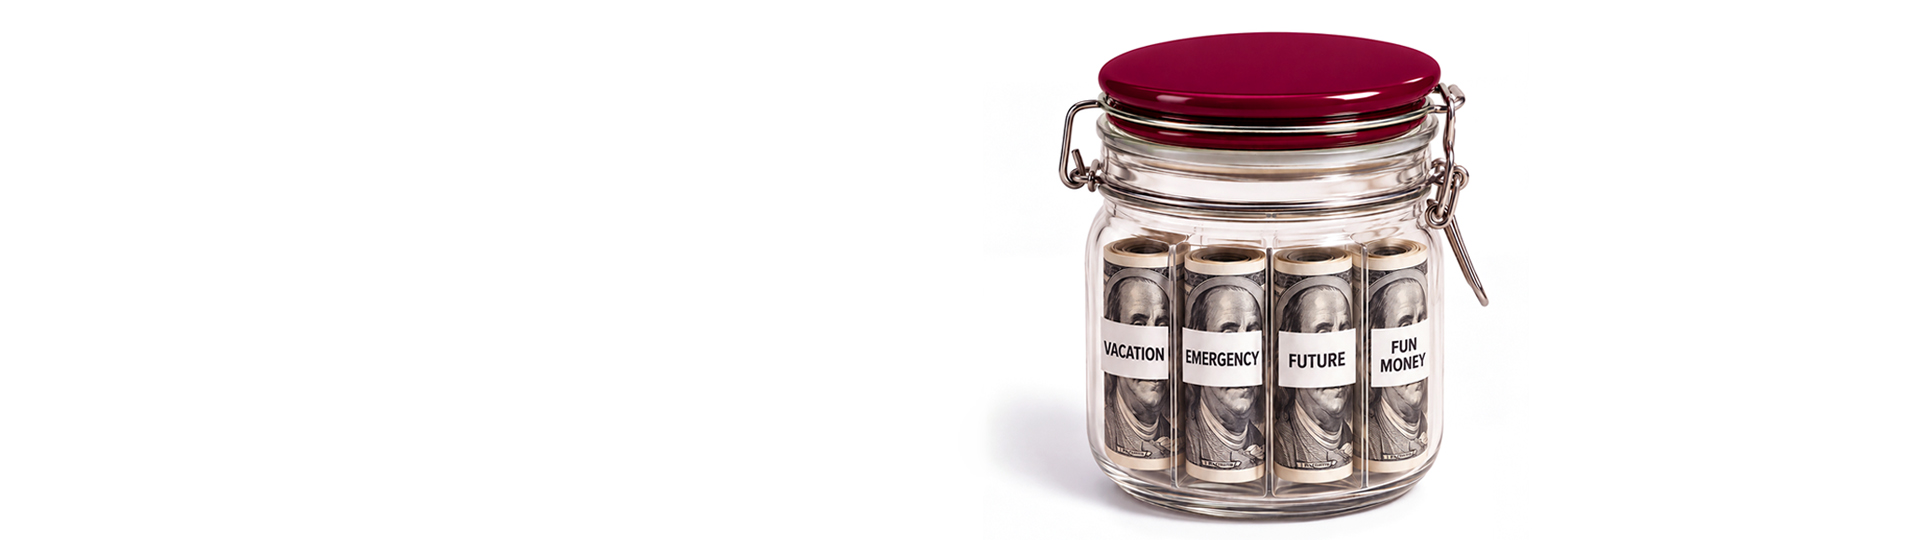
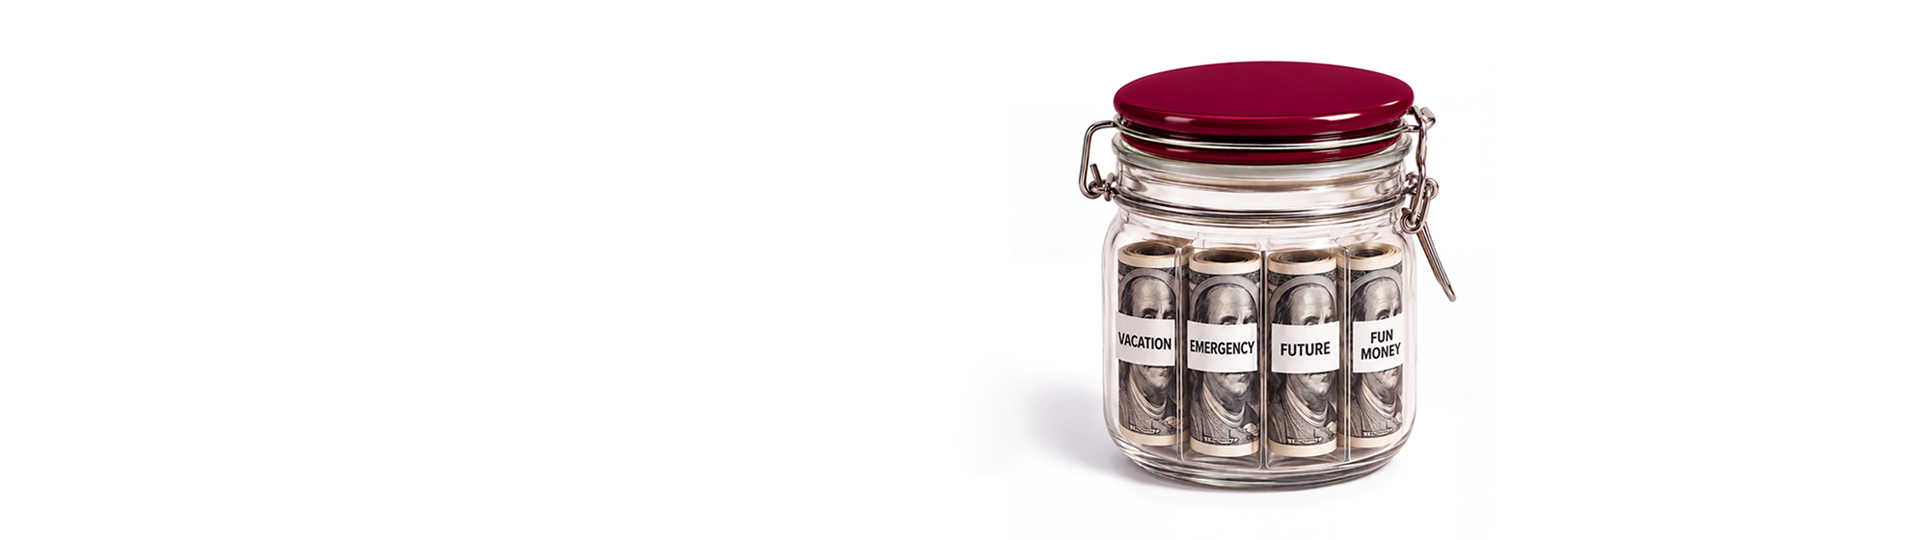
final online

Changed region(s): [[0.5312, 0.0593, 0.7812, 0.9778]]

diff --git a/LLI-Aviation-Application-ThankYou.html b/LLI-Aviation-Application-ThankYou.html
@@ -5,7 +5,7 @@
   <meta http-equiv="Content-Type" content="text/html; charset=UTF-8">
   <meta http-equiv="X-UA-Compatible" content="IE=edge">
   <meta name="viewport" content="initial-scale=1, maximum-scale=1, width=device-width">
-  <title>AUB OSB | Behavioral Finance Certificate - Thank You</title>
+  <title>AUB OSB | Aviation Management - Application Thank You</title>
 
   <!-- Font Awesome -->
   <link rel="stylesheet" href="https://cdnjs.cloudflare.com/ajax/libs/font-awesome/6.7.2/css/all.min.css">
@@ -22,13 +22,78 @@
       content: '';
       position: absolute;
       inset: 0;
-      background: linear-gradient(0deg, var(--color-black-30, rgba(0, 0, 0, 0.3)), var(--color-black-30, rgba(0, 0, 0, 0.3))), url('images/AUB-OSB-ONLINE-Behavioral-Finance-banner.jpg');
-      background-position: center center;
+      background: linear-gradient(0deg, var(--color-black-30), var(--color-black-30)),
+        url('images/AUB-OSB-Avitation-Banner.jpg');
+      background-position: 35% center;
       background-size: cover;
       background-repeat: no-repeat;
       z-index: 0;
     }
 
+    .hero__label {
+      font-size: 0.8rem;
+      letter-spacing: 3px;
+      font-weight: 500;
+      color: rgba(255, 255, 255, 0.9);
+      text-transform: uppercase;
+      margin-bottom: 0.75rem;
+    }
+
+    .hero__title {
+      font-size: 3.2rem;
+      font-weight: 800;
+      line-height: 1.2;
+      letter-spacing: -0.02em;
+    }
+
+    .hero__sub {
+      font-size: 1.2rem;
+      font-weight: 500;
+      margin: 0.5rem 0 1rem;
+    }
+
+    .hero__desc {
+      font-size: 1.05rem;
+      opacity: 0.85;
+      margin: 1rem 0 2rem;
+      max-width: 600px;
+    }
+
+    /* ── Logo bar ── */
+    .hero__logos {
+      --logo-gap: 3rem;
+      display: flex;
+      align-items: center;
+      flex-wrap: wrap;
+      gap: var(--logo-gap);
+      margin-bottom: 1rem;
+    }
+
+    .logo-item {
+      position: relative;
+      display: flex;
+      align-items: center;
+      justify-content: center;
+      flex: 0 0 auto;
+      max-width: 100%;
+    }
+
+    .logo-item img {
+      display: block;
+      max-height: 90px;
+      width: 100%;
+      height: auto;
+      object-fit: contain;
+      filter: brightness(0) invert(1);
+      transition: max-height 0.3s ease;
+    }
+
+    #IATA-logo {
+      position: absolute;
+      bottom: 0;
+      right: 1.5rem;
+      max-width: clamp(60px, 6vw, 70px);
+    }
   </style>
 
   <!-- Google Tag Manager -->
@@ -37,63 +102,45 @@
 </head>
 
 <body>
-  <!-- Google Tag Manager (noscript) -->
-  <noscript><iframe src="https://trk.aub.edu.lb/ns.html?id=GTM-KZDZDJJ" height="0" width="0"
+  <noscript><iframe src="https://www.googletagmanager.com/ns.html?id=GTM-KZDZDJJ" height="0" width="0"
       style="display:none;visibility:hidden"></iframe></noscript>
-  <!-- End Google Tag Manager (noscript) -->
 
-  <section class="hero">
+  <!-- Hero Banner -->
+  <section class="hero hero-left-align">
     <div class="container">
-      <div class="hero-logo text-center">
-        <a href="https://www.aub.edu.lb/osb">
-          <img src="images/AUB-OSB-Logo-white-vertical.png" alt="AUB OSB Logo"
-            onerror="this.src='https://placehold.co/140x140?text=AUB+OSB'">
+      <!-- ═══ LOGO BAR ═══ -->
+      <div class="hero__logos">
+        <a class="logo-item"
+          href="https://www.aub.edu.lb/osb/lifelong_learning_institute/programs/Aviation-Certificate.html"
+          target="_blank" rel="noopener">
+          <img src="images/AUB-OSB-LLI-MEA-Lockup.png"
+            alt="AUB - Suliman S. Olayan School of Business - Lifelong Learning Institute">
         </a>
       </div>
-      <div class="hero-content text-center">
-        <h1>Thank you for completing the form.</h1>
-        <p class="hero-tagline">
-          You've taken the first step toward advancing your expertise in Behavioral Finance. Our team
-          looks forward to supporting you throughout your learning journey.
-        </p>
+
+      <div class="hero-content" style="margin-bottom: 60px;">
+        <h1 class="hero__title">Aviation Management <br />&amp; Operational Excellence</h1>
+        <div class="hero__sub">Professional Certificate in Partnership with MEA</div>
+        <p class="hero__desc">The future of aviation belongs to leaders who can think globally, lead
+          strategically,
+          and adapt rapidly. Take off toward a future in aviation with a program designed to help you lead,
+          innovate,
+          and succeed.</p>
       </div>
+      <img id="IATA-logo" src="images\Logo-IATA-dark.png" alt="IATA Logo">
     </div>
   </section>
 
   <div class="container">
     <div class="form-card">
-
-      <!-- Action buttons - use the existing button-group class -->
-      <div class="button-group">
-        <a href="https://www.aub.edu.lb/osb/Documents/BehavioralFinanceFactsheet.pdf" class="btn btn-outline" download>
-          <i class="fas fa-download"></i> Download Brochure
-        </a>
-        <a href="https://bookings.cloud.microsoft/book/InvestmentAnalysisModernPortfolioManagementOnlineDiploma@mail.aub.edu/?ismsaljsauthenabled=true"
-          class="btn btn-outline" target="_blank">
-          <i class="fas fa-calendar-alt"></i> Schedule one-on-one meeting
-        </a>
-        <a href="https://ocp.aub.edu.lb/newapplication?program=d8fff28d-743e-4efb-a014-8f6d6614d2fc"
-          class="btn btn-primary" target="_blank">
-          <i class="fas fa-file-alt"></i> Complete Your Application Here
-        </a>
-      </div>
-
-      <div class="separator"></div>
-
       <!-- Contact section - use existing contact-section classes -->
       <div class="contact-section">
-        <p style="margin-bottom: 1rem; font-size: 1.1rem; font-weight: 500; text-align: center;">For inquiries, please
-          contact us</p>
-        <div class="contact-links">
-          <a href="tel:+9611374374,3929" class="contact-link">
-            <i class="fas fa-phone"></i>
-            <span>+961-1-374 374 ext. 3929</span>
-          </a>
-          <a href="mailto:behavioralfincert@aub.edu.lb" class="contact-link">
-            <i class="fas fa-envelope"></i>
-            <span>behavioralfincert@aub.edu.lb</span>
-          </a>
-        </div>
+        <p style="margin-bottom: 1rem; font-size: 3rem; font-weight: 500; text-align: center;">
+          Application submitted successfully!
+        </p>
+        <p style="font-size: 1.2rem; text-align: center;">
+          Please check your inbox and spam/junk folder for next steps.
+        </p>
       </div>
     </div>
   </div>

diff --git a/Online-Behavioral-Finance-Apply.html b/Online-Behavioral-Finance-Apply.html
@@ -52,7 +52,7 @@
     <script src="js/university-ui.js"></script>
 
     <!-- Google Tag Manager -->
-    <script>(function (w, d, s, l, i) { w[l] = w[l] || []; w[l].push({ 'gtm.start': new Date().getTime(), event: 'gtm.js' }); var f = d.getElementsByTagName(s)[0], j = d.createElement(s); j.async = true; j.src = "https://trk.aub.edu.lb/del06kgsdkznp.js?" + i; f.parentNode.insertBefore(j, f); })(window, document, 'script', 'dataLayer', '5xknvli=GQpHLDA%2BSiAqKiAvLjlBHU1cVFpCFwlWERsYRQEXEkUcDA%3D%3D');</script>
+    <script>(function (w, d, s, l, i) {w[l] = w[l] || []; w[l].push({'gtm.start': new Date().getTime(), event: 'gtm.js'}); var f = d.getElementsByTagName(s)[0], j = d.createElement(s); j.async = true; j.src = "https://trk.aub.edu.lb/del06kgsdkznp.js?" + i; f.parentNode.insertBefore(j, f);})(window, document, 'script', 'dataLayer', '5xknvli=GQpHLDA%2BSiAqKiAvLjlBHU1cVFpCFwlWERsYRQEXEkUcDA%3D%3D');</script>
     <!-- End Google Tag Manager -->
 
     <!-- Mailchimp endpoint -->
@@ -77,12 +77,11 @@
             <div class="hero-content text-center">
                 <h1>Behavioral Finance Certificate</h1>
                 <p class="hero-tagline">
-                     The Online Professional certificate in Behavioral Finance from the Suliman S. Olayan School of
+                    The Online Professional certificate in Behavioral Finance from the Suliman S. Olayan School of
                     Business is designed to provide a holistic overview of behavioral trends in the financial markets
-                    and economies.<br/>
-                    It equips learners with practical strategies to identify, evaluate, and mitigate biases in
-                    real-world financial decisions, strengthening their ability to apply behavioral insights in
-                    investment management, forecasting, and finance.
+                    and economies. It equips learners with practical strategies to identify, evaluate, and mitigate
+                    biases in real-world financial decisions, strengthening their ability to apply behavioral insights
+                    in investment management, forecasting, and finance.
                 </p>
                 <!-- <p class="hero-tagline"
                     style="margin-top: 12px;">

diff --git a/Online-Behavioral-Finance-Brochure.html b/Online-Behavioral-Finance-Brochure.html
@@ -85,10 +85,9 @@
                 <p class="hero-tagline">
                     The Online Professional certificate in Behavioral Finance from the Suliman S. Olayan School of
                     Business is designed to provide a holistic overview of behavioral trends in the financial markets
-                    and economies.<br/>
-                    It equips learners with practical strategies to identify, evaluate, and mitigate biases in
-                    real-world financial decisions, strengthening their ability to apply behavioral insights in
-                    investment management, forecasting, and finance.
+                    and economies. It equips learners with practical strategies to identify, evaluate, and mitigate
+                    biases in real-world financial decisions, strengthening their ability to apply behavioral insights
+                    in investment management, forecasting, and finance.
                 </p>
                 <!-- <p class="hero-tagline"
                     style="margin-top: 12px;">
@@ -120,7 +119,7 @@
                 <input type="hidden" id="00N0Y00000RODiR" name="00N0Y00000RODiR" value="Personal Email">
                 <input type="hidden" id="00N0Y00000RODr9" name="00N0Y00000RODr9" value="Personal Phone">
                 <!-- retURL points to PDF -->
-                <input type="hidden" name="retURL" value="https://www.aub.edu.lb/osb/Documents/Behavioral%20Finance%20Factsheet.pdf">
+                <input type="hidden" name="retURL" value="https://www.aub.edu.lb/osb/Documents/BehavioralFinanceFactsheet.pdf">
 
                 <!-- Form fields -->
                 <div class=" validate-input form-group" data-validate="First Name is required">

diff --git a/LLI-Aviation-Application.html b/LLI-Aviation-Application.html
@@ -94,7 +94,7 @@
     <script src="js/mailchimp-subscribe.js"></script>
     <script src="build/js/intlTelInput.js"></script>
     <script src="js/phonescript.js"></script>
-    <script src="js/validator-configuration-v1.1.js"></script>
+    <script src="js/validator-configuration-v1.2.js"></script>
     <script src="js/validator-v1.js"></script>
     <script src="js/universities.js"></script>
     <script src="js/university-ui.js"></script>
@@ -161,9 +161,8 @@
                 <input type="hidden" id="description" name="description">
                 <input type="hidden" name="00NP500000D37Bx" id="Campaign_Name" value="">
                 <input type="hidden" name="00NP500000D37IP" id="AD_Name" value="">
-                lii - where to go next?
                 <input type="hidden" name="retURL"
-                    value="https://www.aub.edu.lb/osb/Landing/Pages/LLI-Aviation-Apply-ThankYou.html">
+                    value="https://www.aub.edu.lb/osb/Landing/Pages/LLI-Aviation-Application-ThankYou.html">
 
                 <div class="form-grid">
                     <!-- First Name -->

diff --git a/js/validator-configuration-v1.2.js b/js/validator-configuration-v1.2.js
@@ -46,8 +46,8 @@ var VALIDATOR_CONFIG = {
             { id: 'phone', type: 'phone', label: 'Phone' },
             { id: 'employer', type: 'company', label: 'Company' },
             { id: 'country_residence', type: 'countryResidence', label: 'Country of Residence' },
-            { id: 'university', type: 'university', label: 'University' },
-            { id: 'major', type: 'major', label: 'University Major' },
+            { id: 'university', type: 'university', label: 'University', required: false  },
+            { id: 'major', type: 'major', label: 'University Major', required: false  },
             { id: 'years_experience', type: 'yearsExp', label: 'Years of Experience' },
             { id: 'hear_about', type: 'hearAbout', label: 'How did you hear about us?' }
         ],

diff --git a/Online-Fintech-Apply-ThankYou.html b/Online-Fintech-Apply-ThankYou.html
@@ -79,10 +79,10 @@
           class="btn btn-outline" target="_blank">
           <i class="fas fa-calendar-alt"></i> Schedule one-on-one meeting
         </a>
-        <!-- <a href="https://ocp.aub.edu.lb/newapplication?program=68565f45-811f-4d4a-8113-fa1cd8bb4bb8"
+        <a href="https://ocp.aub.edu.lb/newapplication?program=68565f45-811f-4d4a-8113-fa1cd8bb4bb8"
           class="btn btn-primary" target="_blank">
           <i class="fas fa-file-alt"></i> Complete Your Application Here
-        </a> -->
+        </a>
       </div>
 
       <div class="separator"></div>

diff --git a/LLI-Aviation-Apply.html b/LLI-Aviation-Apply.html
@@ -94,7 +94,7 @@
     <script src="js/mailchimp-subscribe.js"></script>
     <script src="build/js/intlTelInput.js"></script>
     <script src="js/phonescript.js"></script>
-    <script src="js/validator-configuration-v1.1.js"></script>
+    <script src="js/validator-configuration-v1.2.js"></script>
     <script src="js/validator-v1.js"></script>
     <script src="js/universities.js"></script>
     <script src="js/university-ui.js"></script>

diff --git a/Online-Risk-Regulation-Brochure.html b/Online-Risk-Regulation-Brochure.html
@@ -174,8 +174,7 @@
                     target="_blank">
                     <i class="fas fa-globe"></i> Visit Website
                 </a>
-                <!-- lii - check link to be chaged here -->
-                <a href="#" class="btn btn-outline">
+                <a href="join.aub.edu.lb/apply/" class="btn btn-outline">
                     <i class="fas fa-paper-plane"></i> Apply Now
                 </a>
             </div>
